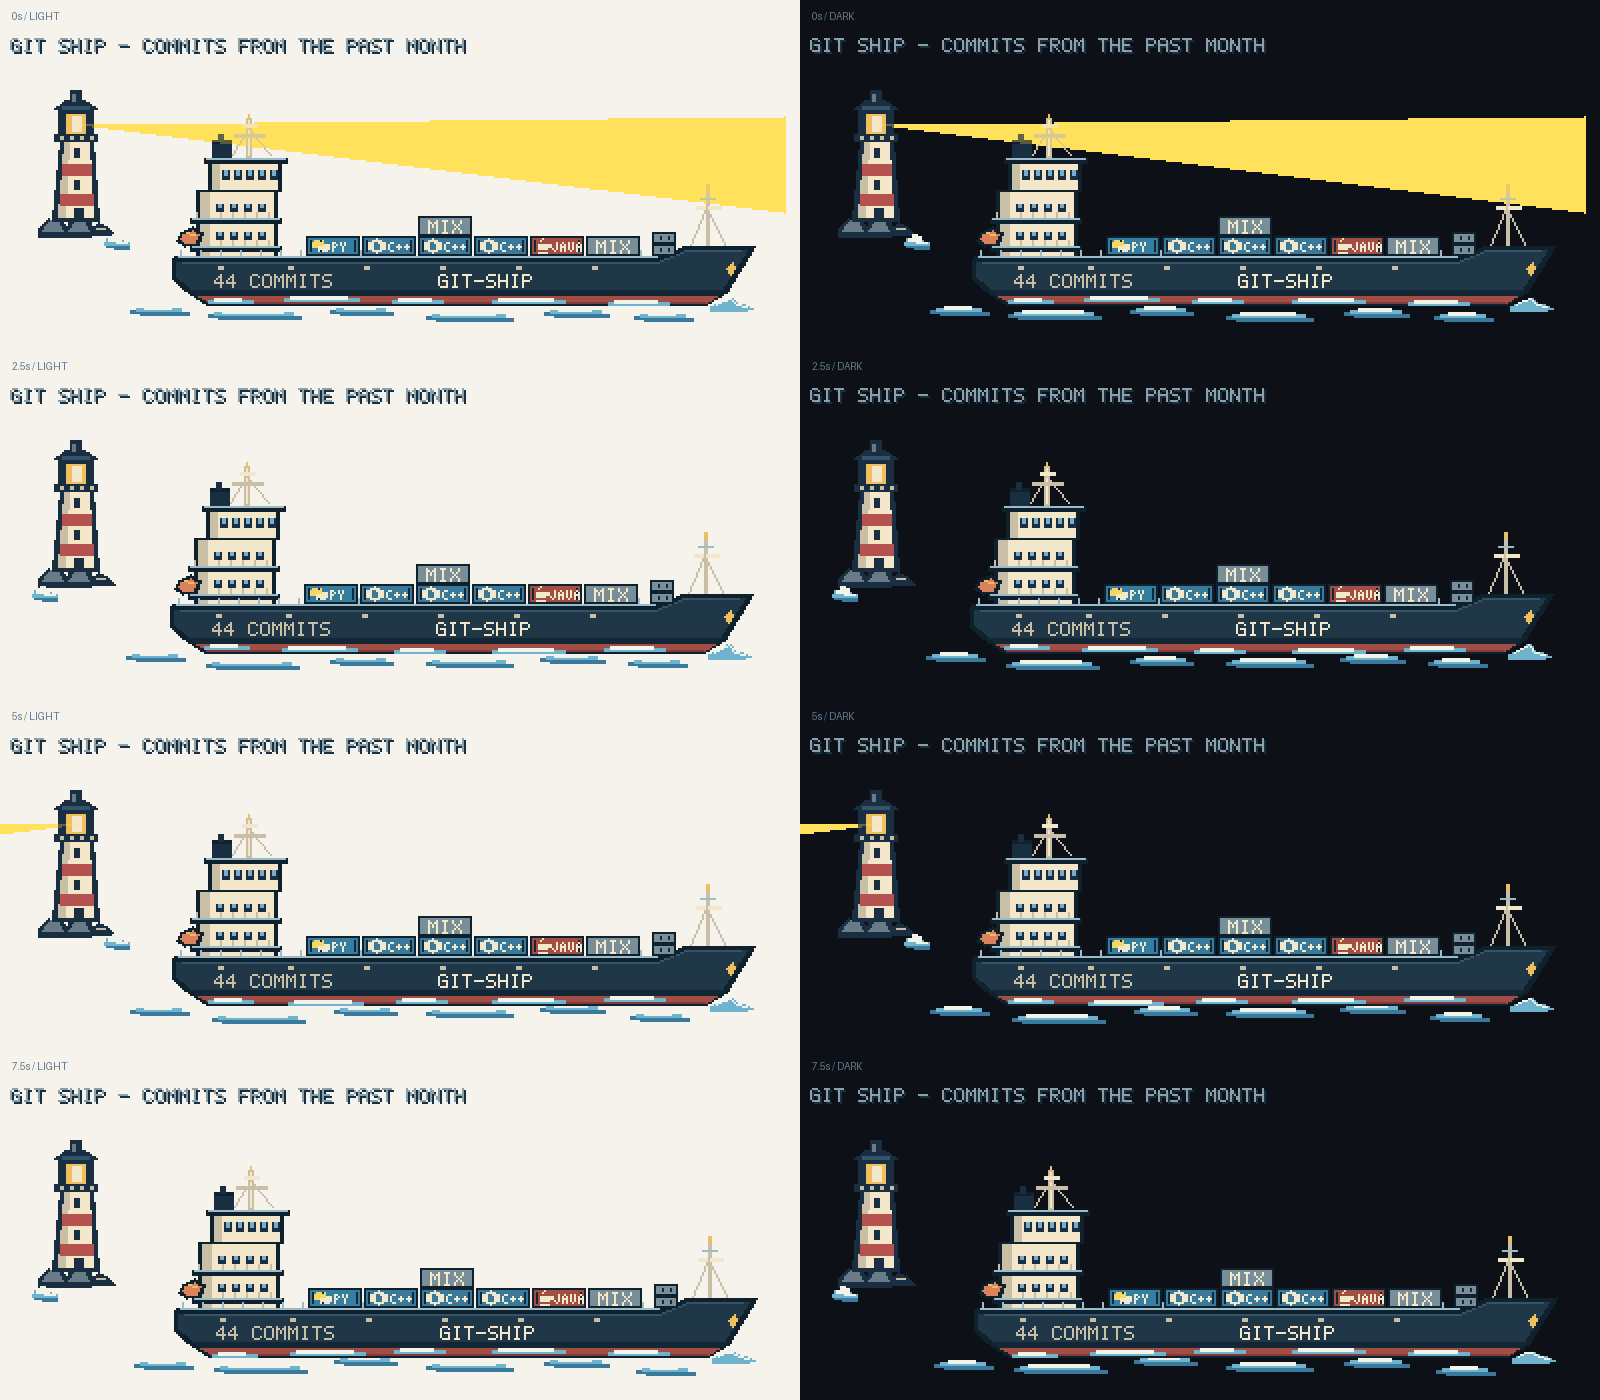
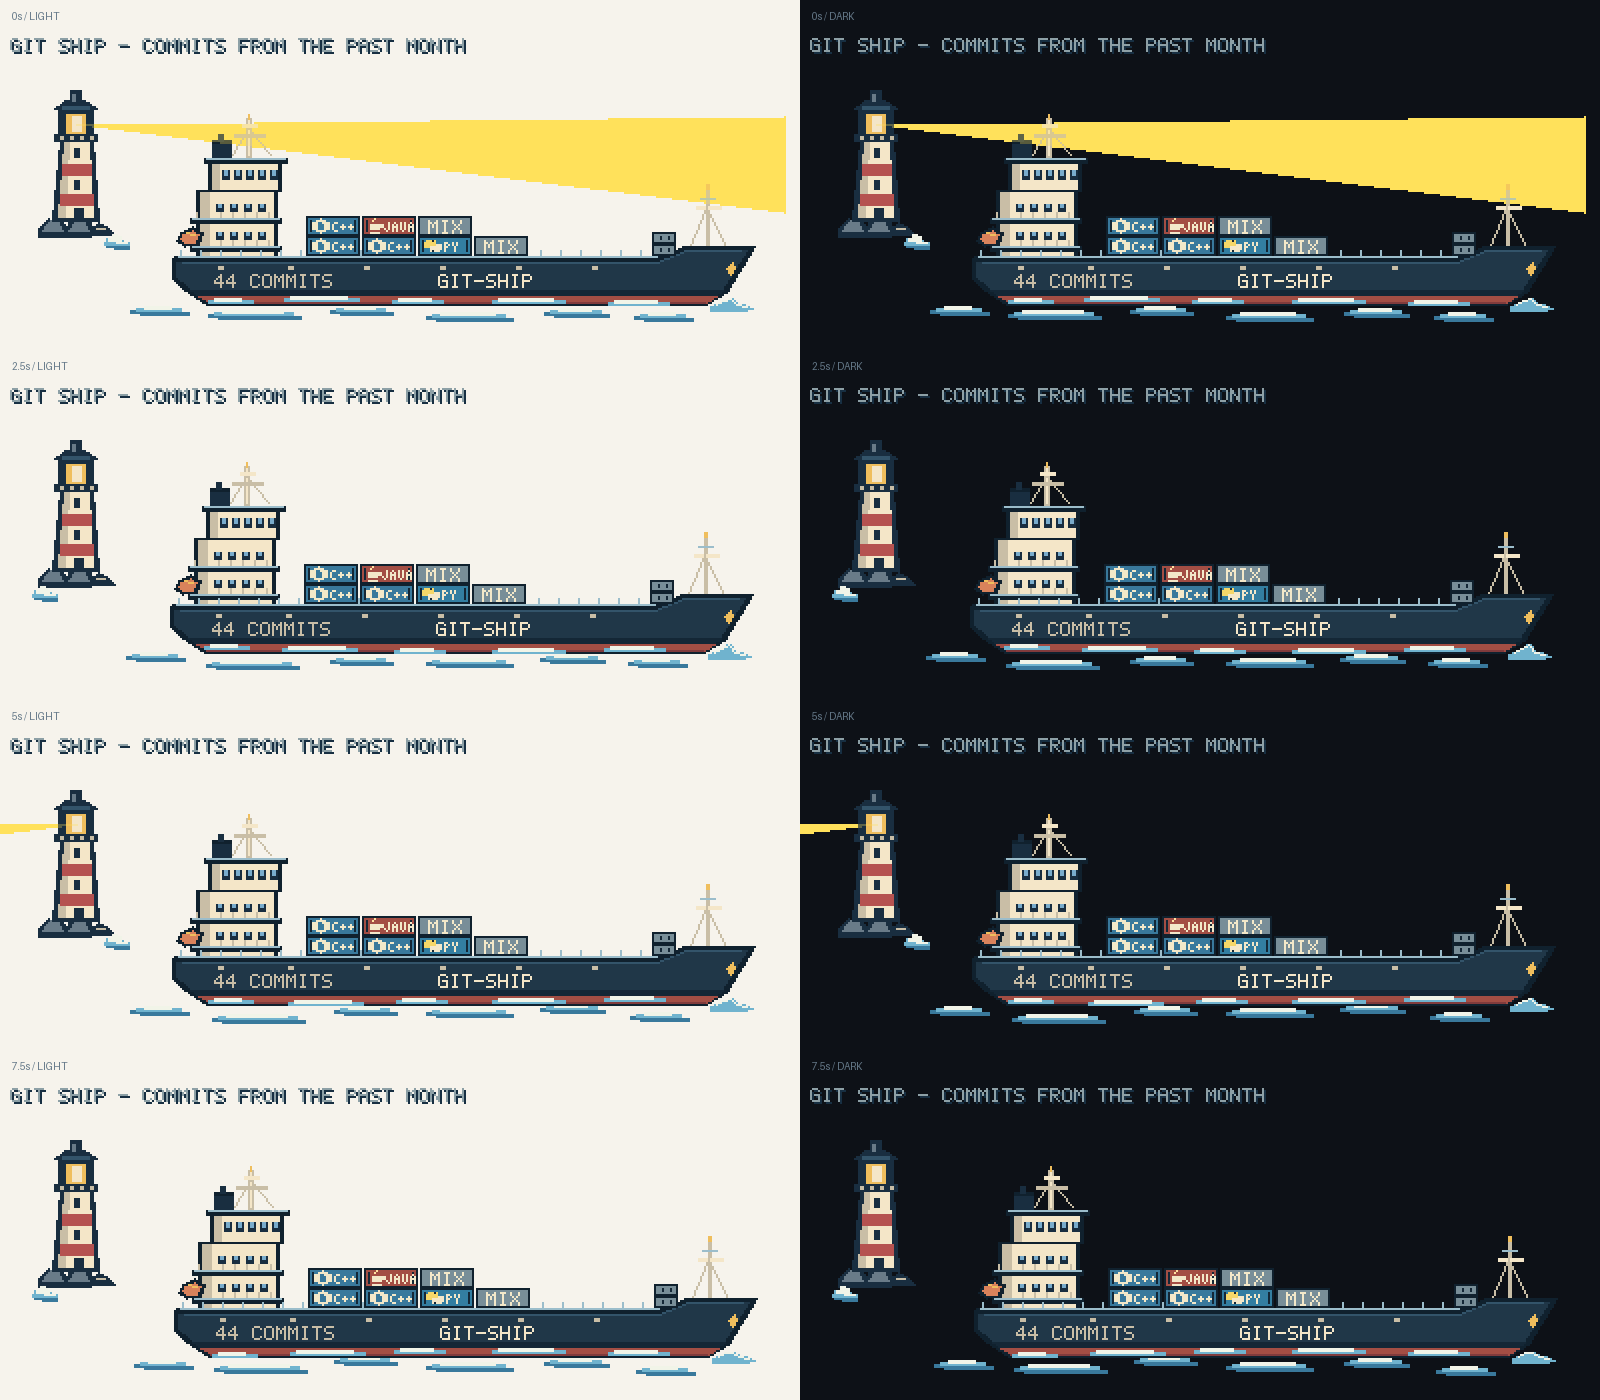
Detect README and workflow cargo instead of broad Git fallbacks

diff --git a/tests/test_cargo_file_detection.py b/tests/test_cargo_file_detection.py
@@ -1,0 +1,72 @@
+from dataclasses import replace
+
+import pytest
+from PIL import Image, ImageDraw
+
+from git_ship.cargo_art import container
+from git_ship.config import Config
+from git_ship.font import paint_text
+from git_ship.huge_ship import huge_ship_sprite, language_cargo_plan
+from git_ship.languages import file_language
+from git_ship.layout import layout
+from git_ship.model import commit_filter_signature
+
+
+@pytest.mark.parametrize(
+    "filename,expected",
+    [
+        ("README.md", "Markdown"),
+        ("SECURITY.md", "Markdown"),
+        (".github/workflows/git-ship.yml", "YAML"),
+        ("action.yaml", "YAML"),
+        ("build.gradle", "Gradle"),
+        ("Main.java", "Java"),
+        ("deleted.py", "Python"),
+        ("config.json", "JSON"),
+        ("Cargo.toml", "TOML"),
+        ("image.png", None),
+        ("unknown.blah", None),
+        ("header.h", None),
+    ],
+)
+def test_huge_detection_identifies_files_even_when_excluded_from_repository_bytes(
+    filename, expected
+):
+    assert file_language(filename, {}, allow_unreported=True) == expected
+    assert file_language(filename, {}) is None  # Existing fleet attribution is unchanged.
+
+
+def test_repository_languages_still_resolve_ambiguous_extensions():
+    assert file_language("header.h", {"C++": 100}, allow_unreported=True) == "C++"
+
+
+def test_markdown_label_is_readable_instead_of_an_unclassified_git_box():
+    actual = container("Markdown")
+    expected = Image.new("RGBA", (27, 10), "#10212e")
+    draw = ImageDraw.Draw(expected)
+    draw.rectangle((1, 1, 25, 8), fill="#788e98")
+    paint_text(draw, (8, 2), "MD", "#f3e8c9")
+    assert actual.tobytes() == expected.tobytes()
+
+
+def test_old_primary_caches_require_refetching_for_corrected_detection(demo):
+    config = Config(huge_cargo_ship=True, cargo_logos=True)
+    old = replace(
+        demo,
+        commit_coverage="complete-primary-language",
+        cargo_window=30,
+        observed_at="2026-10-01T23:59:59.999999+00:00",
+        commit_filters=commit_filter_signature(config),
+    )
+    with pytest.raises(ValueError, match="fresh profile"):
+        layout(old, config)
+
+
+def test_language_groups_fill_adjacent_supported_stacks_instead_of_scattered_center_rows():
+    counts = (("Markdown", 42), ("Python", 12), ("Java", 6))
+    plan = language_cargo_plan(60, counts)
+    actual = huge_ship_sprite(60, counts)
+    for index, box in enumerate(plan["large"]):
+        column, tier = divmod(index, 2)
+        x, y = 72 + column * 28, 66 - tier * 10
+        assert actual.crop((x, y, x + 27, y + 10)).tobytes() == container(box["label"]).tobytes()

diff --git a/src/git_ship/github.py b/src/git_ship/github.py
@@ -176,7 +176,9 @@ class GitHubClient:
                 # language once, whether the change adds, deletes or renames it.
                 affected = set()
                 for name in (entry["filename"], entry.get("previous_filename")):
-                    if isinstance(name, str) and (language := file_language(name, available)):
+                    if isinstance(name, str) and (
+                        language := file_language(name, available, allow_unreported=primary_only)
+                    ):
                         languages.add(language)
                         affected.add(language)
                 changes = entry.get("changes", 1)
@@ -234,7 +236,7 @@ class GitHubClient:
                 for item in page:
                     commit = self.authored_commit(item, profile.username, start, end)
                     if commit is not None and commit.sha not in seen:
-                        if config.huge_cargo_ship and config.cargo_logos and repo.languages:
+                        if config.huge_cargo_ship and config.cargo_logos:
                             commit = replace(
                                 commit,
                                 languages=self.changed_languages(
@@ -414,7 +416,7 @@ class GitHubClient:
                 "observed_at": observed.isoformat(),
                 "cargo_window": config.activity_window,
                 "commit_coverage": (
-                    ("complete-primary-language" if config.cargo_logos else "complete-metadata")
+                    ("complete-file-language" if config.cargo_logos else "complete-metadata")
                     if config.huge_cargo_ship
                     else "sampled-language"
                 ),

diff --git a/src/git_ship/languages.py b/src/git_ship/languages.py
@@ -26,7 +26,9 @@ EXTENSIONS = _index("extensions")
 EXTENSIONS.update({ext: tuple(names) for ext, names in DATA.get("overrides", {}).items()})
 
 
-def file_language(filename: str, available: dict[str, int]) -> str | None:
+def file_language(
+    filename: str, available: dict[str, int], *, allow_unreported: bool = False
+) -> str | None:
     path = PurePosixPath(filename)
     candidates = FILENAMES.get(path.name, ())
     if not candidates:
@@ -41,4 +43,23 @@ def file_language(filename: str, available: dict[str, int]) -> str | None:
         reported = group if group in available else name
         if available.get(reported, 0) > 0:
             matches.add(reported)
-    return min(matches, key=lambda n: (-available[n], n)) if matches else None
+    if matches:
+        return min(matches, key=lambda n: (-available[n], n))
+    if allow_unreported:
+        # README/workflow languages are commonly excluded from GitHub's byte
+        # totals. Prefer their conventional interpretation over obscure dialects.
+        conventional = {
+            ".md": "Markdown",
+            ".markdown": "Markdown",
+            ".yml": "YAML",
+            ".yaml": "YAML",
+            ".json": "JSON",
+            ".toml": "TOML",
+            ".txt": "Text",
+        }.get(path.suffix.lower())
+        if conventional in candidates:
+            return conventional
+        reported = {DATA["languages"][name].get("group", name) for name in candidates}
+        if len(reported) == 1:
+            return next(iter(reported))
+    return None

diff --git a/src/git_ship/huge_ship.py b/src/git_ship/huge_ship.py
@@ -132,9 +132,19 @@ def huge_ship_sprite(
     # Large ISO-like container panels. Six columns, up to five supported tiers.
     cargo = counts["visible_large"]
     column_order = (2, 3, 1, 4, 0, 5)
+
+    def position(index):
+        if plan is None:
+            tier, offset = divmod(index, 6)
+            return column_order[offset], tier
+        # Adjacent entries in the grouped cargo plan stay adjacent on deck:
+        # fill supported stacks from left to right, rather than center-out rows.
+        tiers = max(1, math.ceil(cargo / 6))
+        column, tier = divmod(index, tiers)
+        return column, tier
+
     for index in range(cargo):
-        tier, offset = divmod(index, 6)
-        column = column_order[offset]
+        column, tier = position(index)
         x, y = 72 + column * 28, 66 - tier * 10
         color = CONTAINERS[(column + tier * 2) % len(CONTAINERS)]
         rect((x, y, x + 26, y + 9), HULL_EDGE)
@@ -210,8 +220,8 @@ def huge_ship_sprite(
         paint_text(d, (210, 85), f"+{counts['overflow_commits']}", GOLD)
     if plan is not None:
         for index, box in enumerate(plan["large"]):
-            tier, offset = divmod(index, 6)
-            x, y = 72 + column_order[offset] * 28, 66 - tier * 10
+            column, tier = position(index)
+            x, y = 72 + column * 28, 66 - tier * 10
             image.alpha_composite(container(box["label"]), (x, y))
     assert set(image.getchannel("A").tobytes()) == {0, 255}
     return image

diff --git a/tests/test_cargo_logos.py b/tests/test_cargo_logos.py
@@ -187,6 +187,8 @@ def test_live_logo_scan_is_complete_uncapped_and_cache_marks_primary_coverage(
                 "link": '<https://api.github.com/repos/sailor/code/commits?page=2>; rel="next"'
             }
         sha = urlparse(path).path.split("/")[-1]
+        if "/docs/" in path:
+            return {"sha": sha, "files": [{"filename": "README.md", "changes": 5}]}, {}
         return {
             "sha": sha,
             "files": [
@@ -197,10 +199,10 @@ def test_live_logo_scan_is_complete_uncapped_and_cache_marks_primary_coverage(
 
     monkeypatch.setattr(client, "request", request)
     profile = client.fetch(config)
-    assert profile.commit_coverage == "complete-primary-language"
-    assert dict(aggregate_languages(profile, config)) == {"Java": 30, "Git": 1}
+    assert profile.commit_coverage == "complete-file-language"
+    assert dict(aggregate_languages(profile, config)) == {"Java": 30, "Markdown": 1}
     assert len(profile.repositories[0].commits) == 30
-    assert len([path for path in calls if "/commits/" in path]) == 30
+    assert len([path for path in calls if "/commits/" in path]) == 32
     path = tmp_path / "profile.json"
     profile.write(path)
     assert Profile.read(path) == profile

diff --git a/src/git_ship/model.py b/src/git_ship/model.py
@@ -18,6 +18,7 @@ COMMIT_COVERAGE = {
     "complete-metadata",
     "complete-language",
     "complete-primary-language",
+    "complete-file-language",
 }
 
 
@@ -246,6 +247,7 @@ def aggregate_commits(profile: Profile, config: Config) -> int:
         "complete-metadata",
         "complete-language",
         "complete-primary-language",
+        "complete-file-language",
     ):
         raise ValueError(
             "aggregate commits require complete history; fetch a fresh aggregate profile"
@@ -291,7 +293,7 @@ def aggregate_commits(profile: Profile, config: Config) -> int:
 def aggregate_languages(profile: Profile, config: Config) -> tuple[tuple[str, int], ...]:
     """Assign every distinct commit once; classified fixtures break ties by name."""
     total = aggregate_commits(profile, config)  # Validate cached window and selection first.
-    if profile.commit_coverage not in ("complete-language", "complete-primary-language"):
+    if profile.commit_coverage not in ("complete-language", "complete-file-language"):
         raise ValueError(
             "cargo logos need complete language data; fetch a fresh profile with logos"
         )

diff --git a/src/git_ship/layout.py b/src/git_ship/layout.py
@@ -135,7 +135,11 @@ def layout(profile: Profile, config: Config) -> Scene:
             total,
             cargo_languages=cargo_languages,
         )
-    if profile.commit_coverage in ("complete-metadata", "complete-primary-language"):
+    if profile.commit_coverage in (
+        "complete-metadata",
+        "complete-primary-language",
+        "complete-file-language",
+    ):
         raise ValueError(
             "cached profile contains aggregate-only data; fetch a fresh profile "
             "without --huge-cargo-ship to render language ships"

diff --git a/src/git_ship/cargo_art.py b/src/git_ship/cargo_art.py
@@ -47,7 +47,8 @@ def container(language):
     d = ImageDraw.Draw(tile)
     if language not in STYLES:
         d.rectangle((1, 1, 25, 8), fill="#788e98")
-        label = "MIX" if language == "Mixed" else language_style(language, Config()).label[:4]
+        labels = {"Mixed": "MIX", "Markdown": "MD", "Text": "TXT"}
+        label = labels.get(language, language_style(language, Config()).label[:4])
         paint_text(d, ((27 - (len(label) * 6 - 1)) // 2, 2), label, WHITE)
         return tile
     color, label = STYLES[language]

diff --git a/docs/verification.md b/docs/verification.md
@@ -18,6 +18,14 @@ commits (9 Java, 13 Python, 44 documentation/unclassified). The resulting
 100-frame GIF passed exact decoded-frame verification. It was a local audit;
 the personal profile's fleet selection was not changed.
 
+The follow-up file-detection audit corrected the broad Git fallback. It inspected
+changed files even in repositories with no language bytes, resolving README
+Markdown and workflow YAML explicitly. On the same account's then-current
+past-month data, 111 requests identified 69 unique commits: Markdown 33, YAML 12,
+Python 11, Java 9, SVG 2, Gradle 1 and JSON 1, with no Git fallbacks or warnings.
+The 100-frame GIF again passed exact decoding. Old primary-language caches
+require refetching. Matching containers now fill adjacent supported stacks.
+
 ## Commands and results
 
 Commands were run from the project root with its `.venv` unless noted.
@@ -27,7 +35,7 @@ Commands were run from the project root with its `.venv` unless noted.
 | `/opt/homebrew/bin/python3 -m venv .venv` | Created Python 3.15 environment; the system Python 3.9.6 was too old. |
 | `python -m pip install --no-build-isolation -e .` | Package and CLI installed successfully. |
 | `ruff check .` / `ruff format --check .` | Passed. |
-| `pytest -q` | **342 passed** in 9.64 seconds, with no live API required. |
+| `pytest -q` | **358 passed** in 9.45 seconds, with no live API required. |
 | `python -m build --no-isolation` | Built wheel and source archive, including JSON mappings, fixtures and the Linguist license. |
 | `python -m pip install --no-deps --upgrade --target out/wheel-install dist/git_ship-0.1.0-py3-none-any.whl` | Installed built wheel into an isolated target for verification. |
 | From `/private/tmp`, using the absolute interpreter path and `PYTHONPATH=.../out/wheel-install`: `python -m git_ship render --demo --duration 2 --scale 1 --output-dir .../out/wheel-render` | Installed-wheel import/render smoke test; bundled offline assets and mappings work outside the source checkout. |
@@ -268,8 +276,8 @@ Delivered art: `examples/demo/git-ship.gif`, `git-ship.png`, `report.json`,
 
 Huge demo: `examples/huge-demo/`, using seed `huge-demo`, the same month fixture,
 and the new watermark wording. It exports **800×320**, **100 frames at 10 fps**,
-**10 seconds**, **929,157 GIF bytes** and **6,298 PNG bytes**. Transparency ranges
-from **63.321875% to 76.6515625%** across the loop. Its larger ship has its own
+**10 seconds**, **943,039 GIF bytes** and **6,400 PNG bytes**. Transparency ranges
+from **63.2984375% to 76.628125%** across the loop. Its larger ship has its own
 transparency checks; the standard fleet's 80% ray-off check remains unchanged.
 The 44-commit total is represented by seven six-commit containers and two small
 ones, with no overflow. Both modes' regenerated contact sheets were inspected.

diff --git a/docs/advanced.md b/docs/advanced.md
@@ -168,23 +168,30 @@ Other languages use short labels on neutral panels. The option only affects
 Huge Cargo Ship mode and defaults to off; disable with `false` or `--no-cargo-logos`.
 
 Every distinct authored SHA is assigned once. Live scans classify all commits
-from changed filenames using the vendored Linguist heuristic and current
-repository language data. The language with the greatest sum of changed lines
+from changed filenames using the vendored Linguist heuristic. Repository
+language data resolves ambiguous extensions; recognizable file types are also
+detected when omitted from GitHub's language-byte totals, including Markdown
+READMEs, YAML workflows, deleted source languages and build scripts.
+The language with the greatest sum of changed lines
 wins; ties use alphabetical order. Zero-line changes have weight one, and renames
-consider both filenames. Documentation-only or unclassified commits use Git.
-Deleted languages absent from current repository language data may be unclassified.
+consider both filenames. Markdown appears as `MD`, workflow/config YAML as
+`YAML`, and genuinely unknown files use `Git`. Ambiguous extensions without a
+repository-language match remain unknown rather than guessing.
 
 Full six-commit groups get single-language containers. Leftovers fill mixed
 containers marked `MIX`; the last zero to five commits retain small boxes.
 The thirty-large-container capacity, exact hull total and overflow remain intact.
 Reports record language totals and the contents of every visible container.
 
-Logo-enabled live caches use `complete-primary-language` coverage. Plain metadata
-or sampled fleet caches need refetching with logos enabled. Primary-language
+Logo-enabled live caches use `complete-file-language` coverage. Plain metadata,
+sampled fleet caches, and older `complete-primary-language` caches need
+refetching with logos enabled to identify previously unclassified files. These
 caches support both huge variants but require refetching for the standard fleet,
 which counts multi-language commits on each affected ship. Complete classified
 fixtures assign a commit to its alphabetically first language. A classified
 duplicate SHA takes precedence over an unclassified copy.
+Logo containers fill adjacent supported stacks from left to right, keeping
+same-language groups together rather than following the plain ship's center-out layout.
 
 The huge report uses `mode: "huge-cargo-ship"`, `total_commits`, total and displayed
 large/small container counts, `overflow_commits`, and

diff --git a/README.md b/README.md
@@ -17,7 +17,7 @@ Turn your public GitHub commits into an animated fleet for your profile README. 
 One heavy ship combines all qualifying commits. **Large container = 6 commits; small = 1.** The hull shows the exact total, plus overflow when full.
 
 Enable it with `huge-cargo-ship: 'true'` under the workflow's **Generate fleet → with:** section.
-Add `cargo-logos: 'true'` for language-marked containers: six Java commits make one Java container. Leftovers share mixed containers; each commit counts once.
+Add `cargo-logos: 'true'` for language-marked containers: six Java commits make one Java container. README edits appear as `MD`, workflows as `YAML`. Leftovers share mixed containers; each commit counts once.
 
 ## Set up in 4 steps
 
